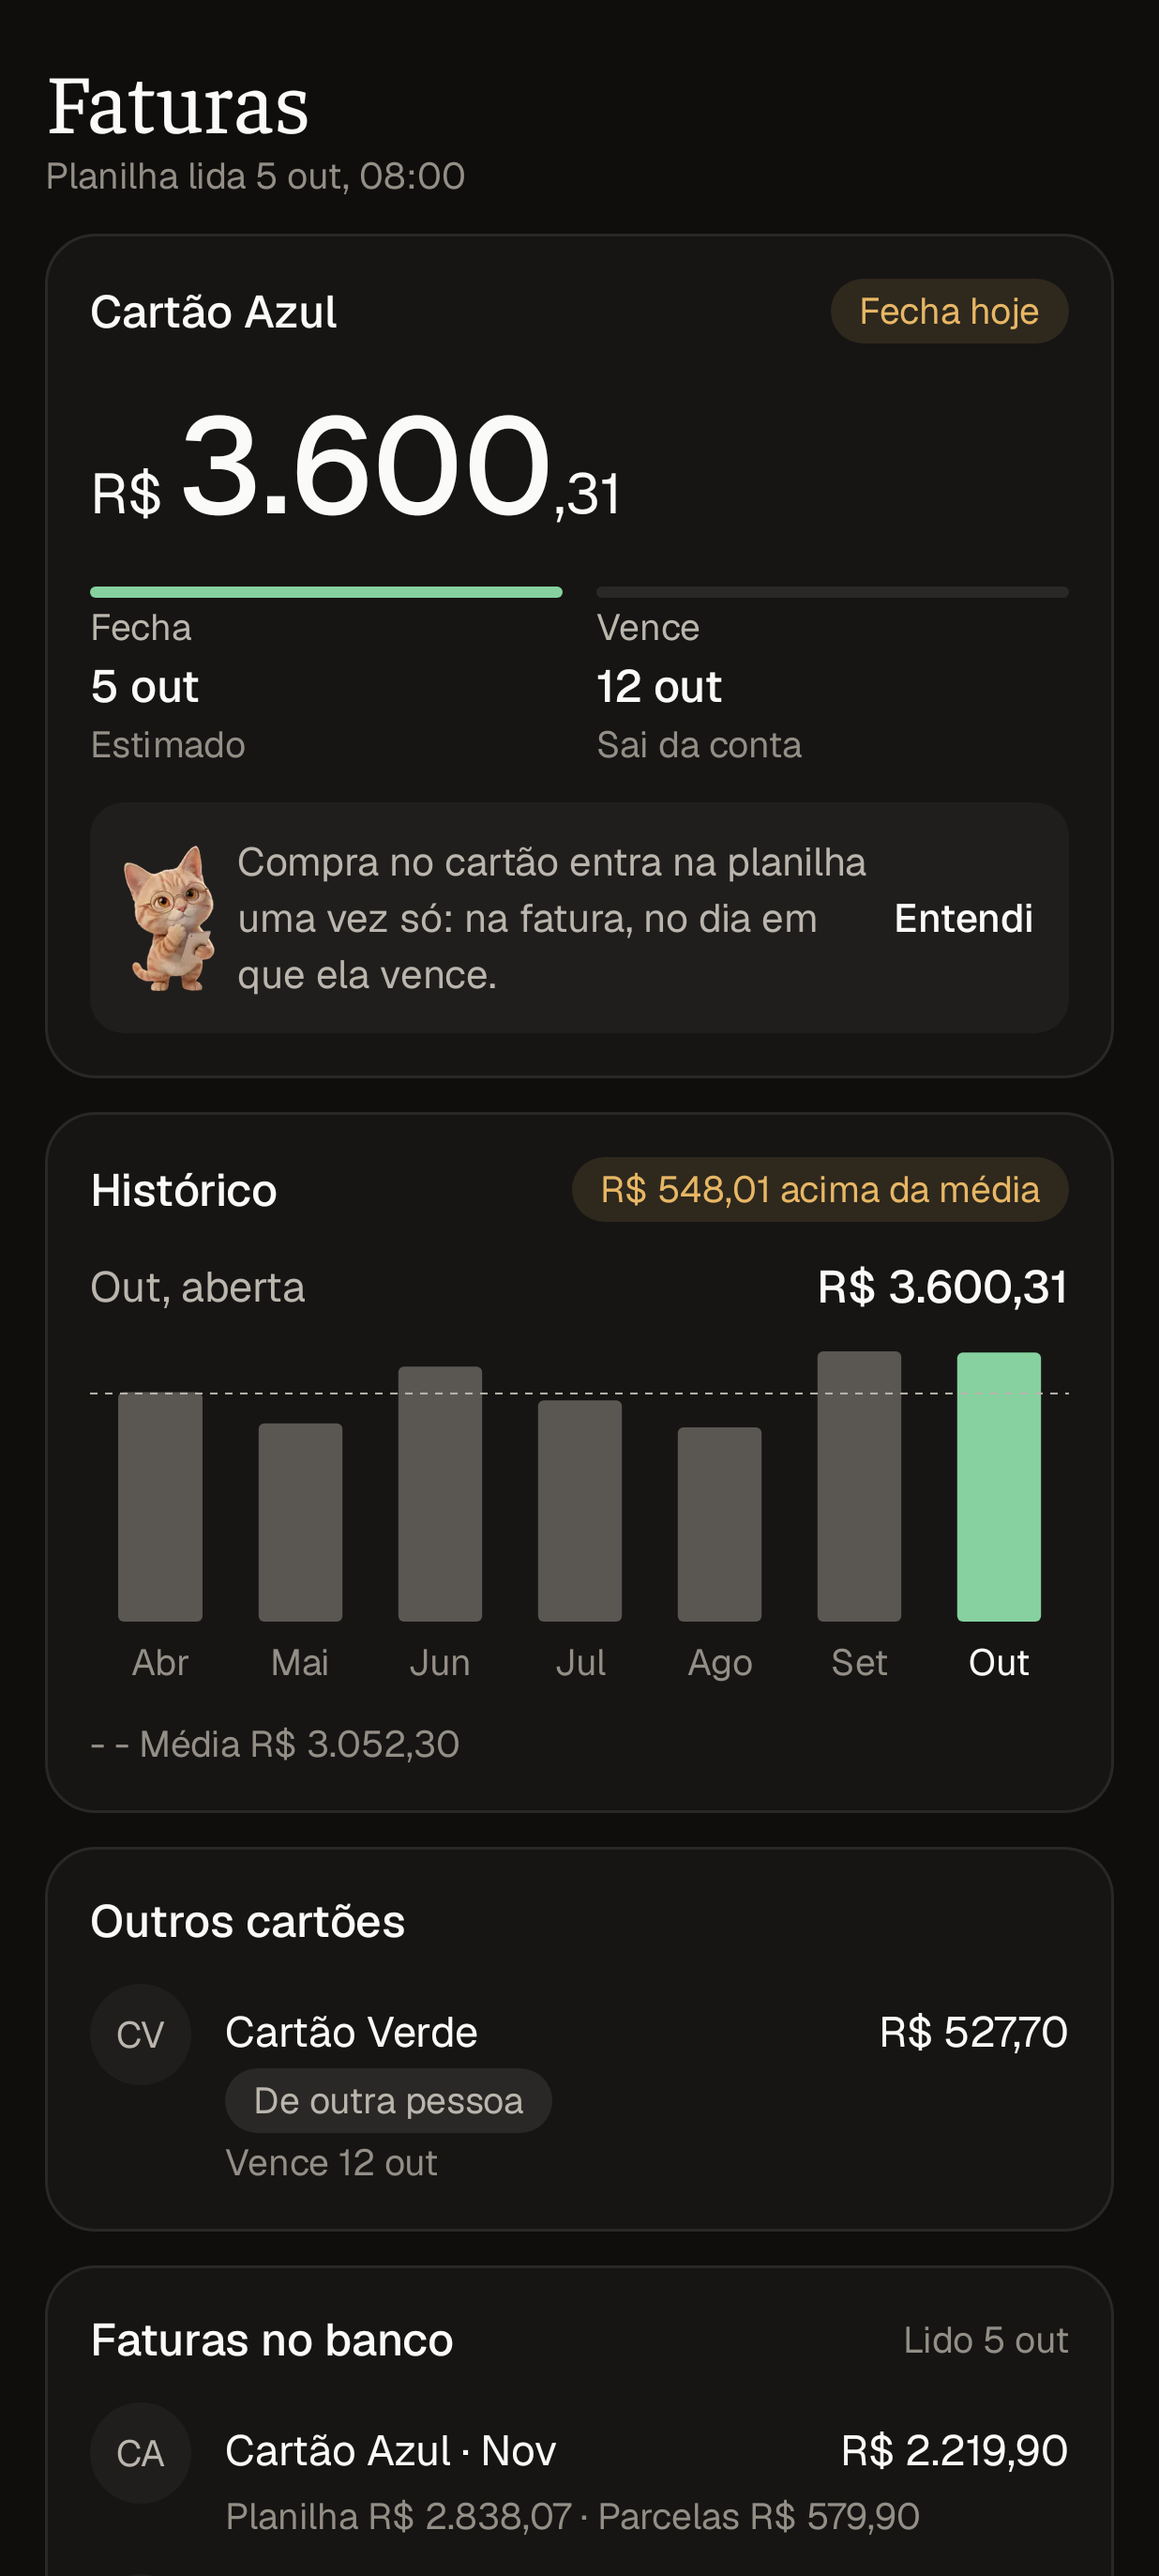
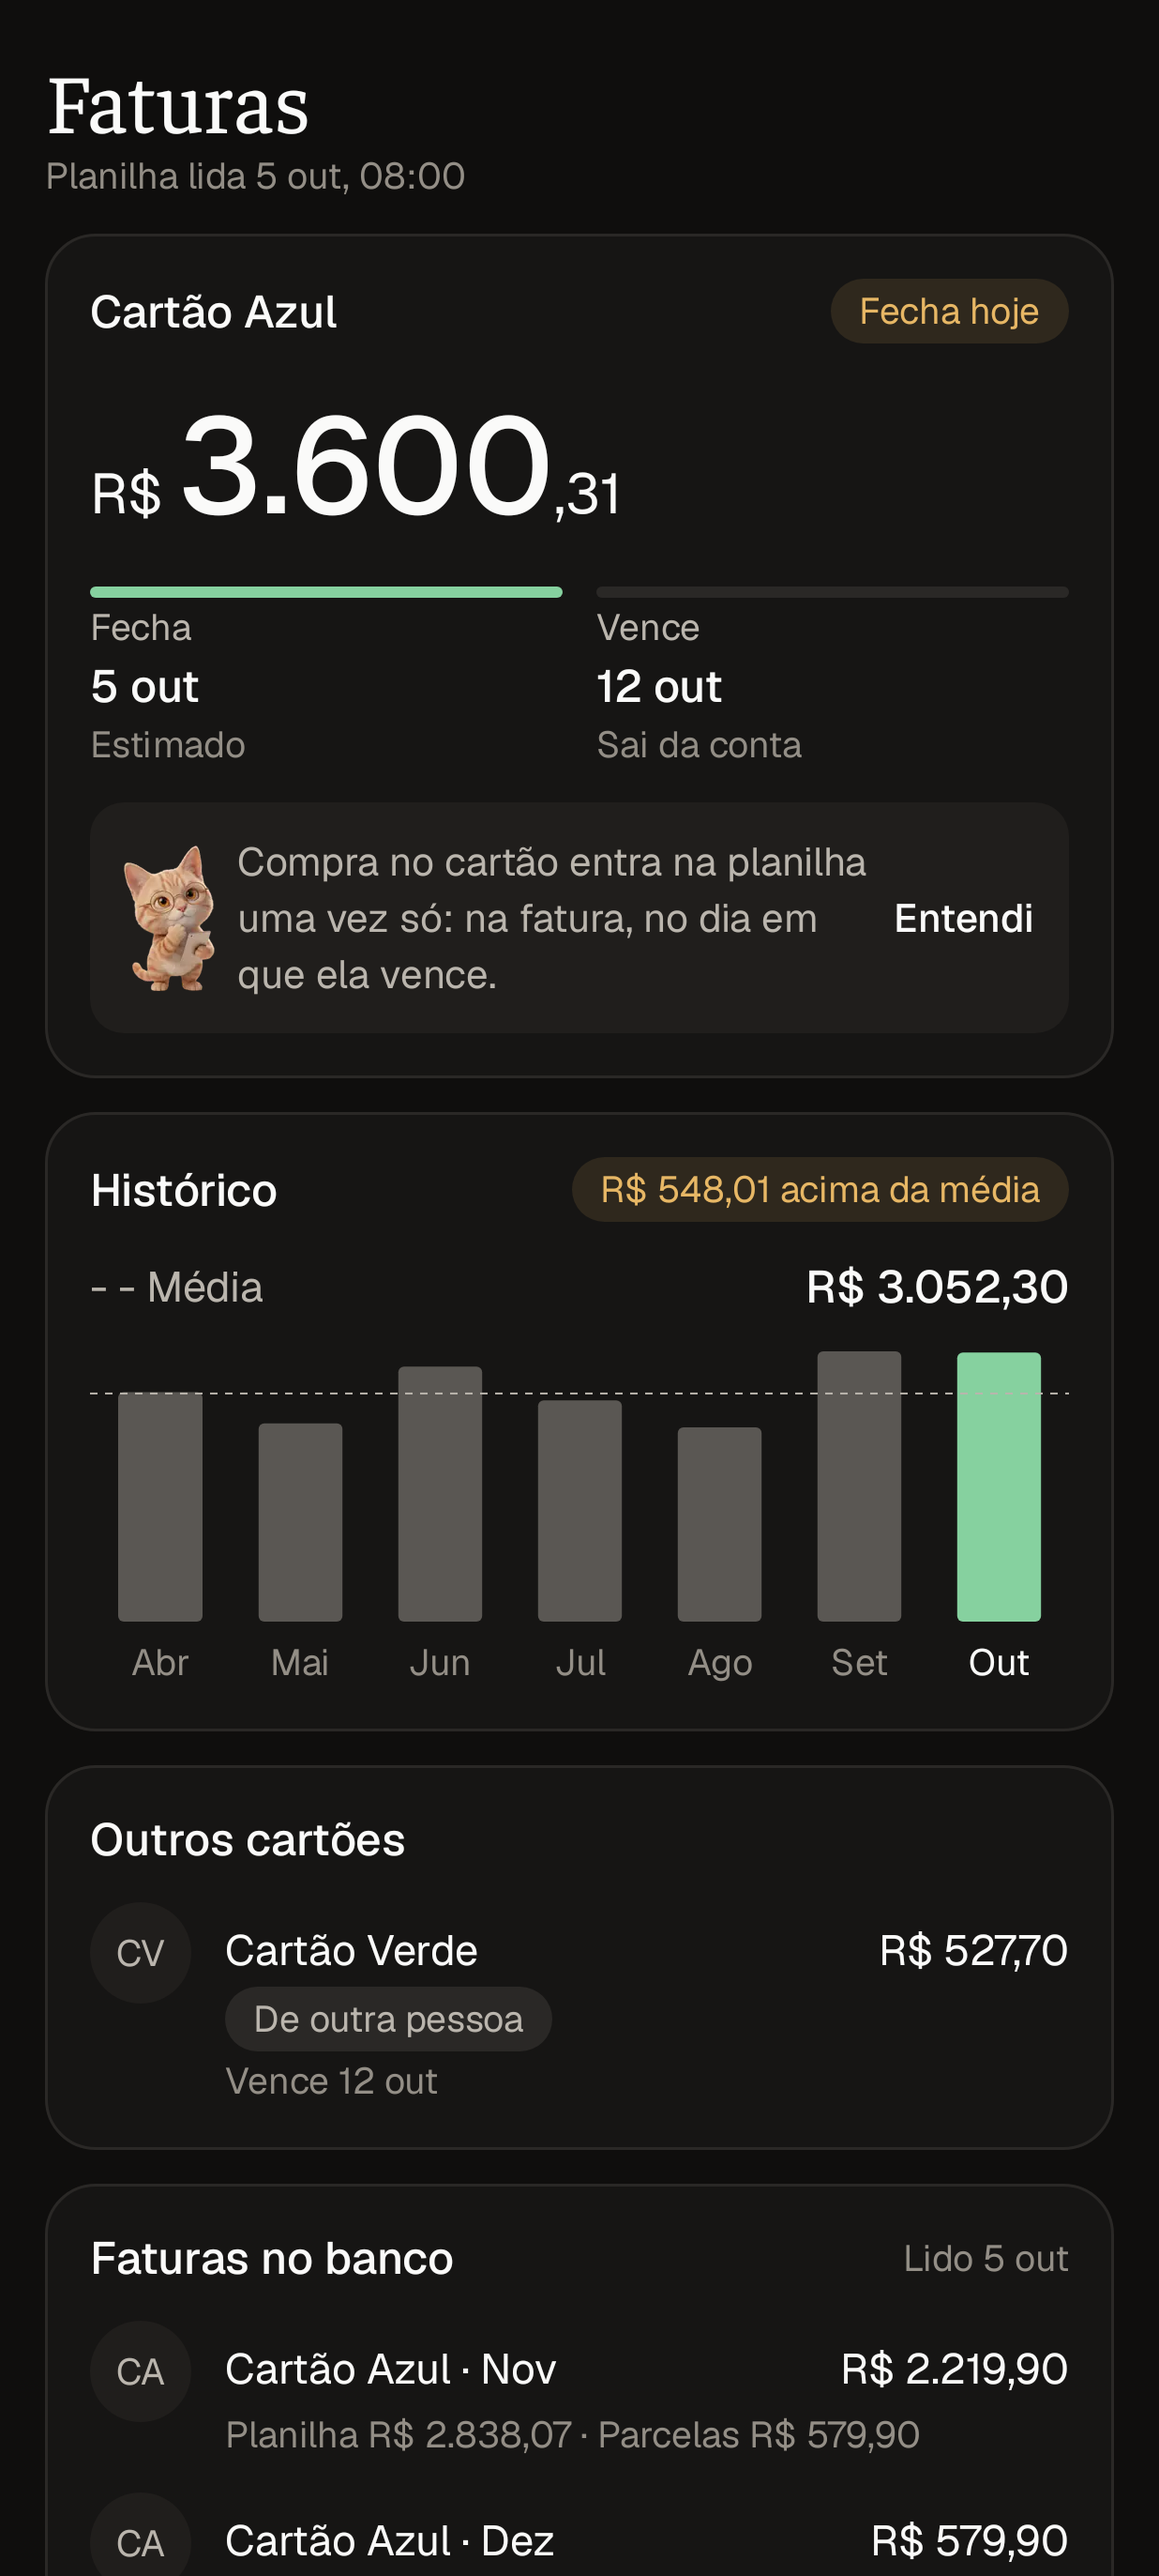
Tira do Histórico das Faturas o valor que repetia o destaque: até tocar numa barra, a linha mostra a média (#74)
A fatura aberta já é o número grande do topo; o Histórico repetia o mesmo valor e ainda tinha uma legenda da média embaixo. Agora a média sobe para a linha de leitura, e tocar numa barra mostra aquele mês.

Claude-Session: https://claude.ai/code/session_015puGdtXzviPEaqxJtpNLAQ

diff --git a/apps/neko/src/web/screens/Faturas.tsx b/apps/neko/src/web/screens/Faturas.tsx
@@ -116,13 +116,25 @@ export const Faturas = () => {
                     </span>
                   )}
                 </div>
-                <p className="figure-line">
-                  <span className="muted">
-                    {shortMonth(shown.key)}
-                    {shown.open ? ", aberta" : ""}
-                  </span>
-                  <strong>{money(shown.amount)}</strong>
-                </p>
+                {/* The open bill is already the hero's number: until a bar is picked, the line
+                    shows the average the bars are read against. */}
+                {picked === null && p.historyAverage !== null ? (
+                  <p className="figure-line">
+                    <span className="muted">
+                      <i className="key dashed" />
+                      Média
+                    </span>
+                    <strong>{money(p.historyAverage)}</strong>
+                  </p>
+                ) : (
+                  <p className="figure-line">
+                    <span className="muted">
+                      {shortMonth(shown.key)}
+                      {shown.open ? ", aberta" : ""}
+                    </span>
+                    <strong>{money(shown.amount)}</strong>
+                  </p>
+                )}
                 <Columns
                   label={`Faturas do ${usual.card.name}`}
                   selected={shown.key}
@@ -136,12 +148,6 @@ export const Faturas = () => {
                     tone: b.key === shown.key ? "accent" : undefined,
                   }))}
                 />
-                {p.historyAverage !== null && (
-                  <p className="hint">
-                    <i className="key dashed" />
-                    Média {money(p.historyAverage)}
-                  </p>
-                )}
               </section>
             )}
 

diff --git a/apps/android/app/src/main/kotlin/dev/johnlaff/neko/ui/FaturasScreen.kt b/apps/android/app/src/main/kotlin/dev/johnlaff/neko/ui/FaturasScreen.kt
@@ -92,9 +92,15 @@ private fun History(v: InvoicesView) {
                 )
             }
         }
+        // The open bill is already the hero's number: until a bar is picked, the line shows the
+        // average the bars are read against.
+        val average = v.historyAverage?.takeIf { picked == null }
         Row(Modifier.fillMaxWidth(), horizontalArrangement = Arrangement.SpaceBetween, verticalAlignment = Alignment.CenterVertically) {
-            Text("${shortMonth(shown.due)}${if (shown.open) ", aberta" else ""}", color = l.muted)
-            Text(money(shown.amount), style = MaterialTheme.typography.titleMedium)
+            Text(
+                if (average != null) "- - Média" else "${shortMonth(shown.due)}${if (shown.open) ", aberta" else ""}",
+                color = l.muted,
+            )
+            Text(money(average ?: shown.amount), style = MaterialTheme.typography.titleMedium)
         }
         Columns(
             items = v.history.map { b ->
@@ -109,7 +115,6 @@ private fun History(v: InvoicesView) {
             onSelect = { picked = it },
             guide = v.historyAverage,
         )
-        v.historyAverage?.let { Text("- - Média ${money(it)}", color = l.faint, style = MaterialTheme.typography.labelMedium) }
     }
 }
 
